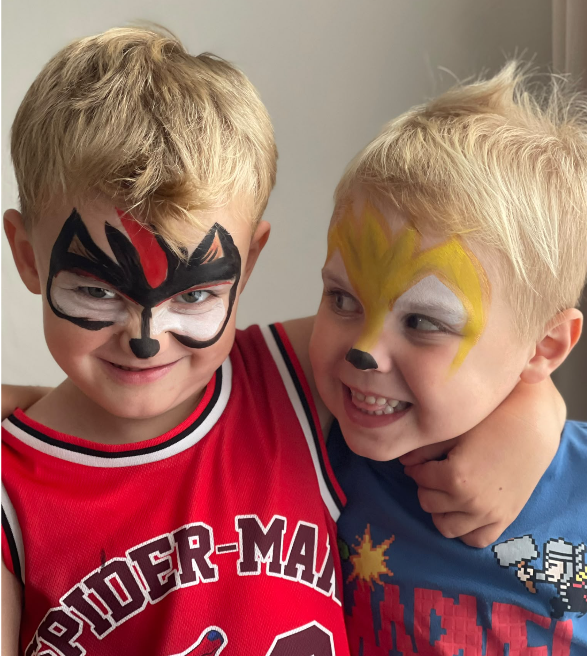
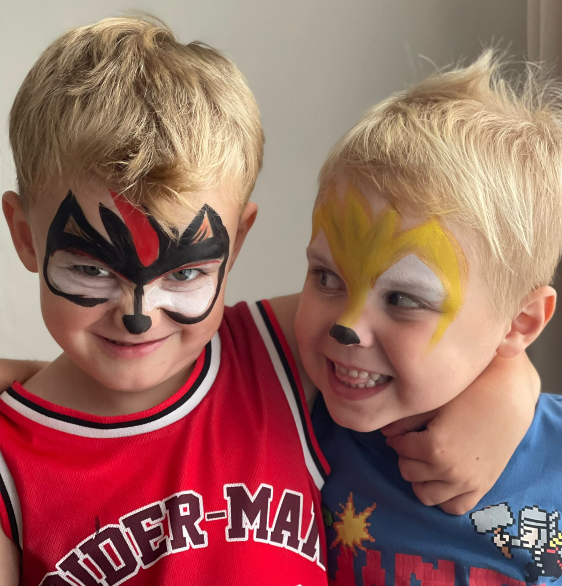
Vernieuw homepage, portfolio en werkgebied met Arnhem en Utrecht.

diff --git a/src/data/siteContent.ts b/src/data/siteContent.ts
@@ -30,16 +30,20 @@ export const siteContent = {
     ownerName: "Nolie",
     /** Korte omschrijving voor footer en SEO */
     shortDescription:
-      "Schmink op locatie in Veenendaal, Ede, Barneveld, Tiel en Wageningen. Vrolijke schmink voor kinderfeestjes, verjaardagen en evenementen.",
+      "Schmink op locatie in Veenendaal, Ede, Barneveld, Tiel, Wageningen, Arnhem, Rhenen en Utrecht. Vrolijke schmink voor kinderfeestjes, verjaardagen en evenementen.",
     /** Geen KvK – leeg laten */
     kvkNumber: "",
-    serviceArea: "Veenendaal, Ede, Barneveld, Tiel en Wageningen",
+    serviceArea:
+      "Veenendaal, Ede, Barneveld, Tiel, Wageningen, Arnhem, Rhenen en Utrecht",
     serviceCities: [
       "Veenendaal",
       "Ede",
       "Barneveld",
       "Tiel",
       "Wageningen",
+      "Arnhem",
+      "Rhenen",
+      "Utrecht",
     ],
     /** Live website-URL voor SEO, sitemap en linkpreviews (zonder slash aan het einde) */
     websiteUrl: "https://www.nolieschmink.nl",
@@ -70,6 +74,9 @@ export const siteContent = {
       "schmink barneveld",
       "schmink tiel",
       "schmink wageningen",
+      "schmink arnhem",
+      "schmink rhenen",
+      "schmink utrecht",
       "schminkster veenendaal",
       "schmink op locatie",
       "kinderfeestje schmink",
@@ -100,13 +107,13 @@ export const siteContent = {
   hero: {
     title: "Schmink op locatie in Veenendaal en regio",
     subtitle:
-      "Vrolijke schmink voor kinderfeestjes, verjaardagen en evenementen — ook in Ede, Barneveld, Tiel en Wageningen. Ik kom naar jou toe met huidvriendelijke schmink en een flinke dosis creativiteit.",
+      "Vrolijke schmink voor kinderfeestjes, verjaardagen en evenementen — ook in Ede, Barneveld, Tiel, Wageningen, Arnhem, Rhenen en Utrecht. Ik kom naar jou toe met huidvriendelijke schmink en een flinke dosis creativiteit.",
     primaryCta: "Bekijk mijn werk",
     secondaryCta: "Neem contact op",
     eyebrow: "Nolie Schmink",
     image: {
-      src: "/images/hero-konijnenoren.png",
-      alt: "Meisje met roze konijnenoren-schmink en bloemetjes op de wangen",
+      src: "/images/hero-twee-meisjes-schmink.png",
+      alt: "Twee meisjes met roze bloemen- en regenboog vlinder-schmink",
     },
   },
 
@@ -140,7 +147,14 @@ export const siteContent = {
     consentNote:
       "Ik maak alleen foto's van kinderen met toestemming van de ouders.",
     /** Niet tonen op portfolio-pagina of in homepage-selectie. */
-    hiddenItemIds: ["arm-gecombineerd"],
+    hiddenItemIds: [
+      "arm-gecombineerd",
+      "draak-jongen",
+      "draak-jongen-groen",
+      "arm-lelies",
+      "fantasiekroon-meisje",
+      "arm-rozen-regenboog",
+    ],
     portfolioCategories: [
       { id: "all", label: "Alles" },
       { id: "armdesigns", label: "Armdesigns" },
@@ -166,19 +180,18 @@ export const siteContent = {
     title: "Mijn werk",
     subtitle:
       "Een kleine selectie van mijn schmink. Voor alle foto's: ga naar Portfolio in het menu.",
+    /** Zelfde volgorde: op mobiel van boven naar beneden; volgende homepage-foto's onderaan toevoegen. */
     itemIds: [
-      "vlinder-meisje",
-      "bloemenkroon-meisje",
-      "hulk",
-      "captain-america-jongen",
-      "ijskoningin-meisje",
+      "dino-jongen",
+      "twee-meisjes-prinses-ijskoningin",
+      "sonic-jongens",
+      "konijn-oren-meisje",
     ],
     mobileItemIds: [
-      "vlinder-meisje",
-      "bloemenkroon-meisje",
-      "ijskoningin-meisje",
-      "hulk",
-      "captain-america-jongen",
+      "dino-jongen",
+      "twee-meisjes-prinses-ijskoningin",
+      "sonic-jongens",
+      "konijn-oren-meisje",
     ],
     viewAllLabel: "Bekijk het volledige portfolio",
     viewAllHref: "/portfolio",

diff --git a/src/lib/portfolio-utils.ts b/src/lib/portfolio-utils.ts
@@ -55,8 +55,14 @@ const itemKinds: Record<string, PortfolioItemKind> = {
   "minecraft-meisje": "gezicht",
   "prinses-paars-meisje": "gezicht",
   "meisjes-hart-vlinder": "gezicht",
+  "fee-regenboog-meisje": "gezicht",
+  "ijskoningin-meisje-2": "gezicht",
+  "hart-regenboog-meisje": "gezicht",
   "arm-rozen-paars": "arm",
   "arm-bloemen-roze": "arm",
+  "dino-jongen": "gezicht",
+  "twee-meisjes-prinses-ijskoningin": "gezicht",
+  "konijn-oren-meisje": "gezicht",
 };
 
 export function getItemKind(

diff --git a/src/components/JsonLd.tsx b/src/components/JsonLd.tsx
@@ -36,6 +36,9 @@ export function JsonLd() {
       "Schmink Barneveld",
       "Schmink Tiel",
       "Schmink Wageningen",
+      "Schmink Arnhem",
+      "Schmink Rhenen",
+      "Schmink Utrecht",
       "Nolie Schmink",
     ],
   };
